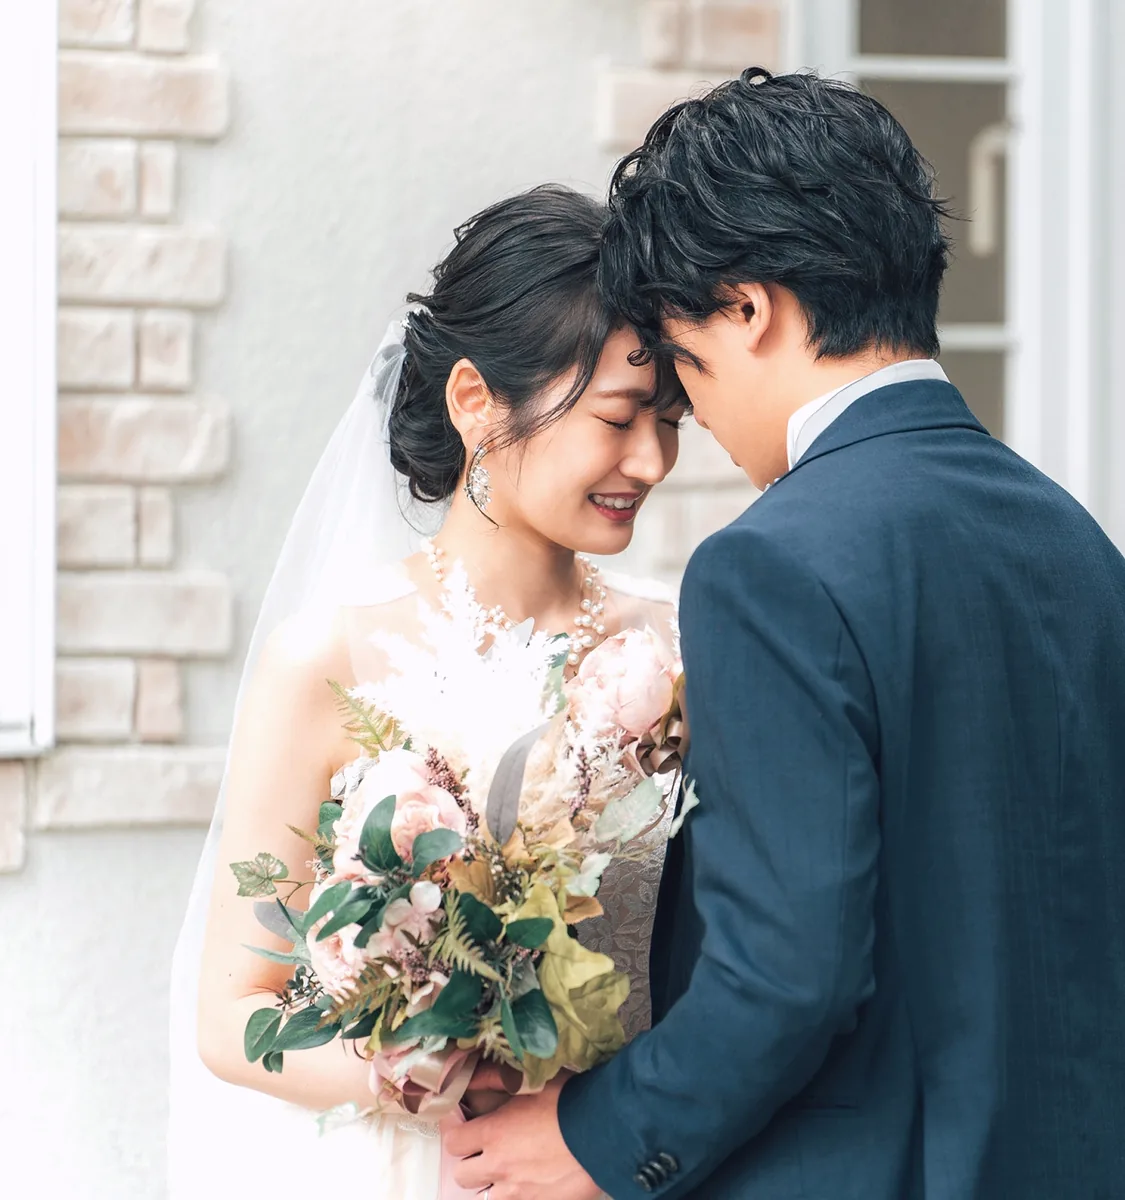
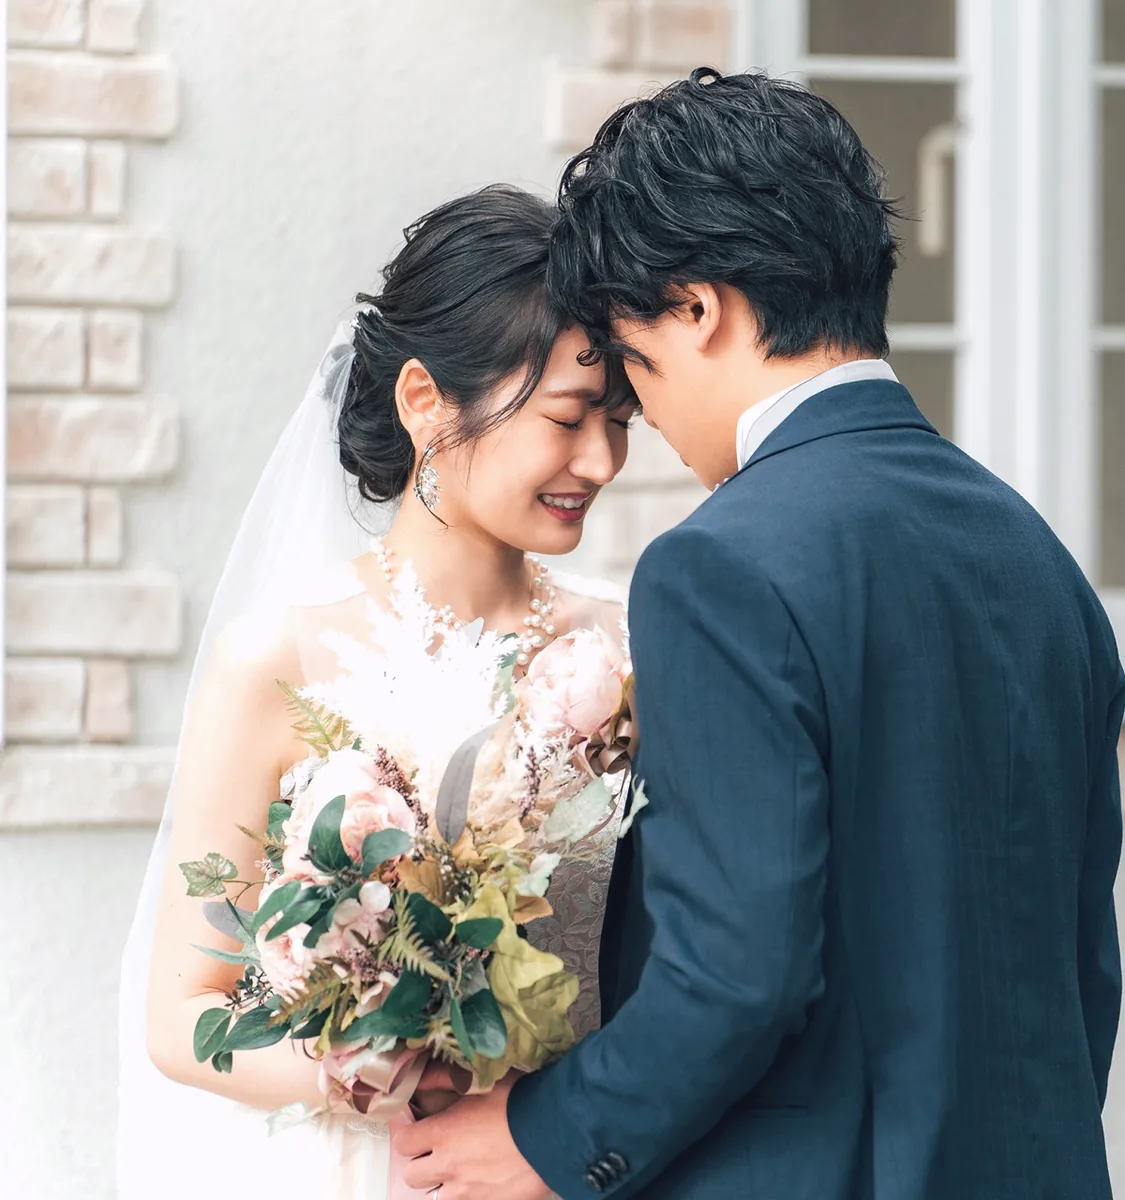
main-v

diff --git a/assets/js/main.js b/assets/js/main.js
@@ -80,8 +80,18 @@
       timer = null;
     var reduceMotion = window.matchMedia && window.matchMedia("(prefers-reduced-motion: reduce)").matches;
     var show = function (i) {
-      // 最初の切り替えで、読み込み時の演出用クラスを外す
-      if (i !== current) slider.classList.remove("is-intro");
+      // 最初の切り替えで、読み込み時の演出用クラスを外す。
+      // 外した瞬間に1枚目が消えないよう、今の見た目（透明度・ズーム）を固定してから外し、そこから切り替える
+      if (i !== current && slider.classList.contains("is-intro")) {
+        var prev = slides[current],
+          prevImg = prev.querySelector("img");
+        prev.style.opacity = getComputedStyle(prev).opacity;
+        prevImg.style.transform = getComputedStyle(prevImg).transform;
+        slider.classList.remove("is-intro");
+        void prev.offsetWidth;
+        prev.style.opacity = "";
+        prevImg.style.transform = "";
+      }
       current = (i + slides.length) % slides.length;
       slides.forEach(function (s, k) {
         s.classList.toggle("is-active", k === current);

diff --git a/assets/css/style.css b/assets/css/style.css
@@ -398,5 +398,5 @@ html{scroll-behavior:smooth}
 
 @media (min-width:768px) and (max-width:1279px){
   .fv .slider .dots{left:18px;transform:none}
-  .fv .slider .s2 img{object-position:66% 30%}
+  .fv .slider .s2 img{object-position:56% 30%}
 }
